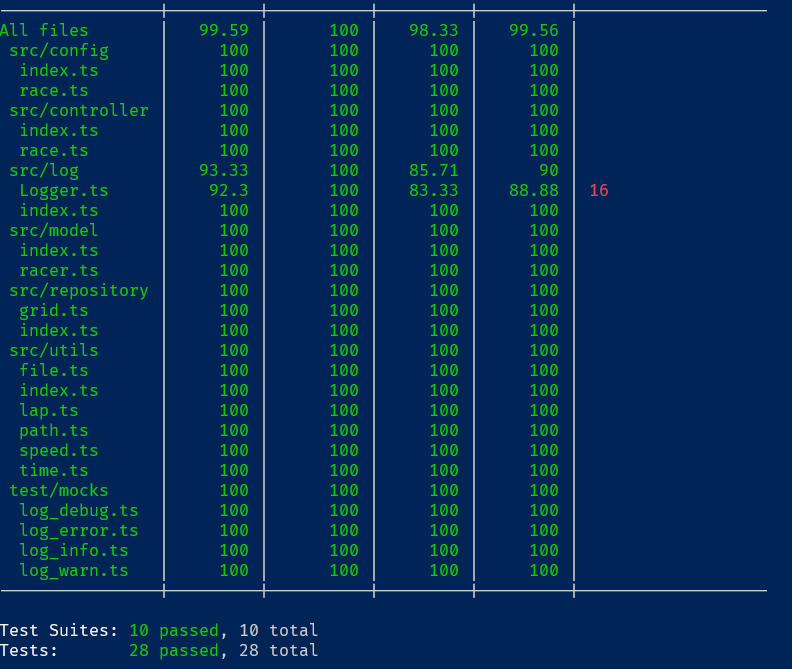
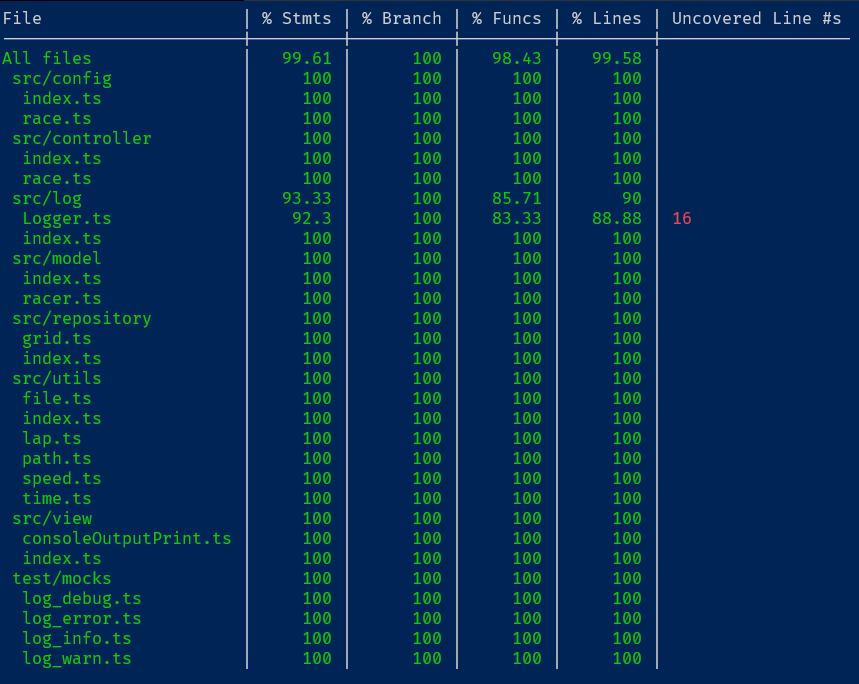
Update README, information about the view module

Changed region(s): [[0.0, 0.0, 1.0, 0.9865]]

diff --git a/README.md b/README.md
@@ -89,6 +89,7 @@ Here is some information about the modules on this application:
 * <b>controller</b>: Responsible to input the commands of the user and output the responses information;
 * <b>log</b>: Classes used to create the logs on the application, to inform errors and issues on the application;
 * <b>model</b>: The entities of the application, when all the business rules are managed;
+* <b>view</b>: Where is going to format and style the UI that is going to output the data for the user;
 * <b>repository</b>: Where is stored the data and all the persistances operations are made;
 * <b>utils</b>: Utilitary classes that help to do some small operations that are not directly envolved on the general logic of the app.
 
@@ -107,6 +108,7 @@ yarn test
 The output of the test is going to be like this:
 
 ![Tests](./images/tests.png)
+![Tests Results](./images/tests_results.png)
 
 The use of tests is very important on the now-a-days software development, because with them when you make changes on the code, you are going to be a warranty if this will break some other logic or not.
 
